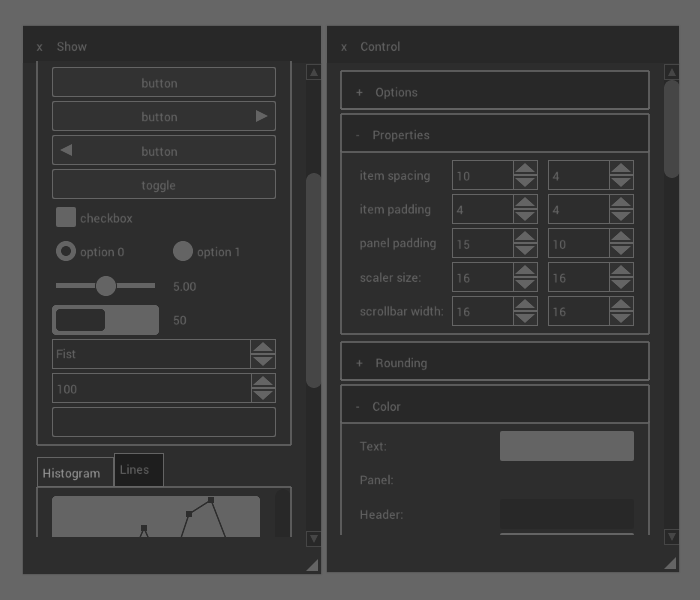
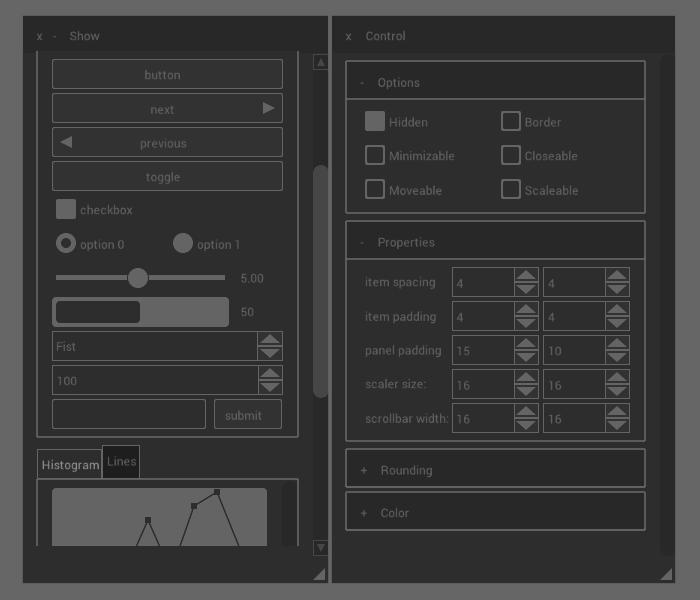
added user defined panel row widget layout

Changed region(s): [[0.03, 0.0, 0.99, 0.99]]

diff --git a/gui.h b/gui.h
@@ -21,7 +21,6 @@
     #define GUI_STATIC
 
 */
-
 #ifndef GUI_H_
 #define GUI_H_
 
@@ -1630,6 +1629,18 @@ struct gui_panel {
     /* prev panel pointer for the panel stack*/
 };
 
+#define GUI_UNDEFINED (-1.0f)
+struct gui_panel_row_layout {
+    gui_float height;
+    /* height of the current row */
+    gui_size columns;
+    /* number of columns in the current row */
+    const gui_float *ratio;
+    /* row widget width ratio */
+    gui_float item_ratio;
+    /* current with of very item */
+};
+
 struct gui_panel_layout {
     gui_float x, y, w, h;
     /* position and size of the panel in the os window */
@@ -1643,16 +1654,14 @@ struct gui_panel_layout {
     /* flag inidicaing if the panel is visible */
     gui_float at_x, at_y;
     /* index position of the current widget row and column  */
-    gui_size index;
-    /* index of the current widget in the current panel row */
     gui_float width, height;
     /* size of the actual useable space inside the panel */
     gui_float header_height;
     /* height of the panel header space */
-    gui_float row_height;
-    /* height of the current row layout */
-    gui_size row_columns;
-    /* number of columns in the current row layout */
+    gui_size index;
+    /* index of the current widget in the current panel row */
+    struct gui_panel_row_layout row;
+    /* currently used panel row layout */
     struct gui_rect clip;
     /* panel clipping rect needed by scrolling */
     const struct gui_config *config;
@@ -1701,7 +1710,8 @@ GUI_API gui_bool gui_panel_begin_stacked(struct gui_panel_layout*, struct gui_pa
 GUI_API gui_bool gui_panel_begin_tiled(struct gui_panel_layout*, struct gui_panel*,
                                         struct gui_layout*, gui_uint slot, gui_size index,
                                         const char*, const struct gui_input*);
-/*  this function begins the panel build up process and push the panel into a tiled layout container
+/*  this function begins the panel build up process and push the panel into a tiled
+ *  layout container
     Input:
     - tiled layout container to push the panel into
     - slot inside the panel with either top,button,center,left or right position
@@ -1712,6 +1722,13 @@ GUI_API gui_bool gui_panel_begin_tiled(struct gui_panel_layout*, struct gui_pane
     - panel layout to fill up with widgets
 */
 GUI_API void gui_panel_row(struct gui_panel_layout*, gui_float height, gui_size cols);
+/*  this function set the current panel row layout
+    Input:
+    - panel row layout height in pixel
+    - panel row layout column count
+*/
+GUI_API void gui_panel_row_templated(struct gui_panel_layout*, gui_float height,
+                                    gui_size cols, const gui_float *ratio);
 /*  this function set the current panel row layout
     Input:
     - panel row layout height in pixel
@@ -3713,7 +3730,7 @@ gui_config_default_properties(struct gui_config *config)
     config->properties[GUI_PROPERTY_SCROLLBAR_WIDTH] = gui_vec2(16, 16);
     config->properties[GUI_PROPERTY_PADDING] = gui_vec2(15.0f, 10.0f);
     config->properties[GUI_PROPERTY_SIZE] = gui_vec2(64.0f, 64.0f);
-    config->properties[GUI_PROPERTY_ITEM_SPACING] = gui_vec2(10.0f, 4.0f);
+    config->properties[GUI_PROPERTY_ITEM_SPACING] = gui_vec2(4.0f, 4.0f);
     config->properties[GUI_PROPERTY_ITEM_PADDING] = gui_vec2(4.0f, 4.0f);
     config->properties[GUI_PROPERTY_SCALER_SIZE] = gui_vec2(16.0f, 16.0f);
 }
@@ -4031,8 +4048,10 @@ gui_panel_begin(struct gui_panel_layout *l, struct gui_panel *p,
     l->width = p->w; l->height = p->h;
     l->config = p->config;
     l->buffer = p->buffer;
-    l->row_columns = 0;
-    l->row_height = 0;
+    l->row.columns = 0;
+    l->row.height = 0;
+    l->row.ratio = NULL;
+    l->row.item_ratio = 0;
     l->offset = p->offset;
     out = p->buffer;
 
@@ -4043,7 +4062,7 @@ gui_panel_begin(struct gui_panel_layout *l, struct gui_panel *p,
         header_w = p->w - 2 * panel_padding.x;
         gui_command_buffer_push_rect(out, p->x, p->y, p->w, l->header_height, 0, *header);
     } else l->header_height = 1;
-    l->row_height = l->header_height + 2 * item_spacing.y;
+    l->row.height = l->header_height + 2 * item_spacing.y;
 
     /* calculate the panel footer */
     footer_h = scaler_size.y + item_padding.y;
@@ -4275,11 +4294,104 @@ gui_panel_row(struct gui_panel_layout *layout, gui_float height, gui_size cols)
 
     /* draw the current row and set the current row layout */
     layout->index = 0;
-    layout->at_y += layout->row_height;
-    layout->row_columns = cols;
-    layout->row_height = height + item_spacing.y;
+    layout->at_y += layout->row.height;
+    layout->row.ratio = NULL;
+    layout->row.columns = cols;
+    layout->row.height = height + item_spacing.y;
     gui_command_buffer_push_rect(out,  layout->at_x, layout->at_y,
         layout->width, height + panel_padding.y, 0, *color);
+}
+
+void
+gui_panel_row_templated(struct gui_panel_layout *layout, gui_float height,
+    gui_size cols, const gui_float *ratio)
+{
+    gui_size i;
+    gui_size n_undef = 0;
+    gui_float r = 0;
+
+    GUI_ASSERT(layout);
+    GUI_ASSERT(layout->config);
+    GUI_ASSERT(layout->buffer);
+    if (!layout) return;
+    if (!layout->valid) return;
+
+    gui_panel_row(layout, height, cols);
+    layout->row.ratio = ratio;
+    for (i = 0; i < cols; ++i) {
+        if (ratio[i] < 0.0f)
+            n_undef++;
+        else r += ratio[i];
+    }
+
+    r = GUI_SATURATE(1.0f - r);
+    layout->row.item_ratio = (r > 0) ? r / n_undef : 0;
+}
+
+static void
+gui_panel_alloc_space(struct gui_rect *bounds, struct gui_panel_layout *layout)
+{
+    const struct gui_config *config;
+    gui_float panel_padding, panel_spacing, panel_space;
+    gui_float item_offset, item_width, item_spacing;
+    struct gui_vec2 spacing;
+    struct gui_vec2 padding;
+
+    GUI_ASSERT(layout);
+    GUI_ASSERT(layout->config);
+    GUI_ASSERT(bounds);
+    if (!layout || !layout->config || !bounds)
+        return;
+
+    config = layout->config;
+    spacing = gui_config_property(config, GUI_PROPERTY_ITEM_SPACING);
+    padding = gui_config_property(config, GUI_PROPERTY_PADDING);
+
+    /* check if the end of the row as hit and begin new row if so*/
+    if (layout->index >= layout->row.columns) {
+        const gui_float *ratio;
+        const gui_float row_height = layout->row.height - spacing.y;
+        ratio = layout->row.ratio;
+        gui_panel_row(layout, row_height, layout->row.columns);
+        layout->row.ratio = ratio;
+    }
+
+    /* calculate the total width in the panel */
+    panel_padding = 2 * padding.x;
+    panel_spacing = (gui_float)(layout->row.columns - 1) * spacing.x;
+    panel_space  = layout->width - panel_padding - panel_spacing;
+
+    /* calculate the width of one item inside the panel row */
+    if (!layout->row.ratio) {
+        /* basic standart table layout */
+        item_width = panel_space / (gui_float)layout->row.columns;
+        item_offset = (gui_float)layout->index * item_width;
+        item_spacing = (gui_float)layout->index * spacing.x;
+    } else {
+        /* user provided layout */
+        gui_size i;
+        gui_float ratio = (layout->row.ratio[layout->index] < 0) ?
+            layout->row.item_ratio : layout->row.ratio[layout->index];
+
+        item_offset = 0;
+        item_spacing = (gui_float)layout->index * spacing.x;
+        if (layout->index < layout->row.columns-1)
+            item_width = (ratio * panel_space) - spacing.x;
+        else item_width = (ratio * panel_space);
+
+        for (i = 0; i < layout->index; ++i) {
+            ratio = (layout->row.ratio[i] < 0) ?
+                layout->row.item_ratio : layout->row.ratio[i];
+            item_offset += ratio * panel_space;
+        }
+    }
+
+    /* set the bounds of the newly allocated widget */
+    bounds->x = layout->at_x + item_offset + item_spacing + padding.x;
+    bounds->y = layout->at_y - layout->offset;
+    bounds->w = item_width;
+    bounds->h = layout->row.height - spacing.y;
+    layout->index++;
 }
 
 gui_size
@@ -4313,60 +4425,17 @@ gui_panel_spacing(struct gui_panel_layout *l, gui_size cols)
     if (!l) return;
     if (!l->valid) return;
 
-    add = (l->index + cols) % l->row_columns;
-    if (l->index + cols > l->row_columns) {
+    add = (l->index + cols) % l->row.columns;
+    if (l->index + cols > l->row.columns) {
         gui_size i;
         const struct gui_config *c = l->config;
         struct gui_vec2 item_spacing = gui_config_property(c, GUI_PROPERTY_ITEM_SPACING);
-        const gui_float row_height = l->row_height - item_spacing.y;
-        gui_size rows = (l->index + cols) / l->row_columns;
+        const gui_float row_height = l->row.height - item_spacing.y;
+        gui_size rows = (l->index + cols) / l->row.columns;
         for (i = 0; i < rows; ++i)
-            gui_panel_row(l, row_height, l->row_columns);
+            gui_panel_row(l, row_height, l->row.columns);
     }
     l->index += add;
-}
-
-static void
-gui_panel_alloc_space(struct gui_rect *bounds, struct gui_panel_layout *layout)
-{
-    const struct gui_config *config;
-    gui_float panel_padding, panel_spacing, panel_space;
-    gui_float item_offset, item_width, item_spacing;
-    struct gui_vec2 spacing;
-    struct gui_vec2 padding;
-
-    GUI_ASSERT(layout);
-    GUI_ASSERT(layout->config);
-    GUI_ASSERT(bounds);
-    if (!layout || !layout->config || !bounds)
-        return;
-
-    config = layout->config;
-    spacing = gui_config_property(config, GUI_PROPERTY_ITEM_SPACING);
-    padding = gui_config_property(config, GUI_PROPERTY_PADDING);
-
-    /* check if the end of the row as hit and begin new row if so*/
-    if (layout->index >= layout->row_columns) {
-        const gui_float row_height = layout->row_height - spacing.y;
-        gui_panel_row(layout, row_height, layout->row_columns);
-    }
-
-    /* calculate the total width in the panel */
-    panel_padding = 2 * padding.x;
-    panel_spacing = (gui_float)(layout->row_columns - 1) * spacing.x;
-    panel_space  = layout->width - panel_padding - panel_spacing;
-
-    /* calculate the width of one item inside the panel row */
-    item_width = panel_space / (gui_float)layout->row_columns;
-    item_offset = (gui_float)layout->index * item_width;
-    item_spacing = (gui_float)layout->index * spacing.x;
-
-    /* set the bounds of the newly allocated widget */
-    bounds->x = layout->at_x + item_offset + item_spacing + padding.x;
-    bounds->y = layout->at_y - layout->offset;
-    bounds->w = item_width;
-    bounds->h = layout->row_height - spacing.y;
-    layout->index++;
 }
 
 gui_bool
@@ -5067,8 +5136,8 @@ gui_panel_table_vline(struct gui_panel_layout *layout, gui_size cols)
         struct gui_rect bounds;
 
         gui_panel_alloc_space(&bounds, layout);
-        y = layout->at_y + layout->row_height;
-        h = layout->row_height;
+        y = layout->at_y + layout->row.height;
+        h = layout->row.height;
         gui_command_buffer_push_line(out,  bounds.x + bounds.w, y,
             bounds.x + bounds.w, h, config->colors[GUI_COLOR_TABLE_LINES]);
     }
@@ -5101,11 +5170,11 @@ gui_panel_table_row(struct gui_panel_layout *layout)
 
     config = layout->config;
     item_spacing = gui_config_property(config, GUI_PROPERTY_ITEM_SPACING);
-    gui_panel_row(layout, layout->row_height - item_spacing.y, layout->row_columns);
+    gui_panel_row(layout, layout->row.height - item_spacing.y, layout->row.columns);
     if (layout->tbl_flags & GUI_TABLE_HBODY)
-        gui_panel_table_hline(layout, (gui_size)(layout->row_height - item_spacing.y));
+        gui_panel_table_hline(layout, (gui_size)(layout->row.height - item_spacing.y));
     if (layout->tbl_flags & GUI_TABLE_VBODY)
-        gui_panel_table_vline(layout, layout->row_columns);
+        gui_panel_table_vline(layout, layout->row.columns);
 }
 
 void
@@ -5394,7 +5463,7 @@ gui_panel_end(struct gui_panel_layout *layout, struct gui_panel *panel)
     GUI_ASSERT(layout);
     GUI_ASSERT(panel);
     if (!panel || !layout) return;
-    layout->at_y += layout->row_height;
+    layout->at_y += layout->row.height;
 
     config = layout->config;
     out = layout->buffer;

diff --git a/demo/demo.c b/demo/demo.c
@@ -76,18 +76,16 @@ combobox_panel(struct gui_panel_layout *panel, struct show_window *demo)
 static void
 widget_panel(struct gui_panel_layout *panel, struct show_window *demo)
 {
-    char buffer[MAX_BUFFER];
     const char *items[] = {"Fist", "Pistol", "Shotgun", "Railgun", "BFG"};
-
     gui_panel_row(panel, 30, 1);
     gui_panel_label(panel, "text left", GUI_TEXT_LEFT);
     gui_panel_label(panel, "text center", GUI_TEXT_CENTERED);
     gui_panel_label(panel, "text right", GUI_TEXT_RIGHT);
     if (gui_panel_button_text(panel, "button", GUI_BUTTON_DEFAULT))
         fprintf(stdout, "button pressed!\n");
-    if (gui_panel_button_text_triangle(panel, GUI_RIGHT, "button", GUI_TEXT_LEFT, GUI_BUTTON_DEFAULT))
+    if (gui_panel_button_text_triangle(panel, GUI_RIGHT, "next", GUI_TEXT_LEFT, GUI_BUTTON_DEFAULT))
         fprintf(stdout, "right triangle button pressed!\n");
-    if (gui_panel_button_text_triangle(panel, GUI_LEFT, "button", GUI_TEXT_RIGHT, GUI_BUTTON_DEFAULT))
+    if (gui_panel_button_text_triangle(panel, GUI_LEFT, "previous", GUI_TEXT_RIGHT, GUI_BUTTON_DEFAULT))
         fprintf(stdout, "left triangle button pressed!\n");
     demo->toggle = gui_panel_button_toggle(panel, "toggle", demo->toggle);
     demo->checkbox = gui_panel_check(panel, "checkbox", demo->checkbox);
@@ -95,18 +93,33 @@ widget_panel(struct gui_panel_layout *panel, struct show_window *demo)
     gui_panel_row(panel, 30, 2);
     if (gui_panel_option(panel, "option 0", demo->option == 0)) demo->option = 0;
     if (gui_panel_option(panel, "option 1", demo->option == 1)) demo->option = 1;
-    demo->slider = gui_panel_slider(panel, 0, demo->slider, 10, 1.0f);
-    sprintf(buffer, "%.2f", demo->slider);
-    gui_panel_label(panel, buffer, GUI_TEXT_LEFT);
-    demo->progressbar = gui_panel_progress(panel, demo->progressbar, 100, gui_true);
-    sprintf(buffer, "%lu", demo->progressbar);
-    gui_panel_label(panel, buffer, GUI_TEXT_LEFT);
+
+    {
+        char buffer[MAX_BUFFER];
+        const gui_float ratio[] = {0.8f, 0.2f};
+        gui_panel_row_templated(panel, 30, 2, ratio);
+        demo->slider = gui_panel_slider(panel, 0, demo->slider, 10, 1.0f);
+        sprintf(buffer, "%.2f", demo->slider);
+        gui_panel_label(panel, buffer, GUI_TEXT_LEFT);
+        demo->progressbar = gui_panel_progress(panel, demo->progressbar, 100, gui_true);
+        sprintf(buffer, "%lu", demo->progressbar);
+        gui_panel_label(panel, buffer, GUI_TEXT_LEFT);
+    }
 
     gui_panel_row(panel, 30, 1);
     demo->item_current = gui_panel_selector(panel, items, LEN(items), demo->item_current);
     demo->spinner = gui_panel_spinner(panel, 0, demo->spinner, 250, 10, &demo->spinner_active);
-    demo->input_length = gui_panel_edit(panel, demo->input_buffer, demo->input_length,
-        MAX_BUFFER, &demo->input_active, GUI_INPUT_DEFAULT);
+
+    {
+        const gui_float ratio[] = {0.7f, 0.3f};
+        gui_panel_row_templated(panel, 30, 2, ratio);
+        demo->input_length = gui_panel_edit(panel, demo->input_buffer, demo->input_length,
+            MAX_BUFFER, &demo->input_active, GUI_INPUT_DEFAULT);
+        if (gui_panel_button_text(panel, "submit", GUI_BUTTON_DEFAULT)) {
+            demo->input_length = 0;
+            fprintf(stdout, "command executed!\n");
+        }
+    }
 }
 
 static void
